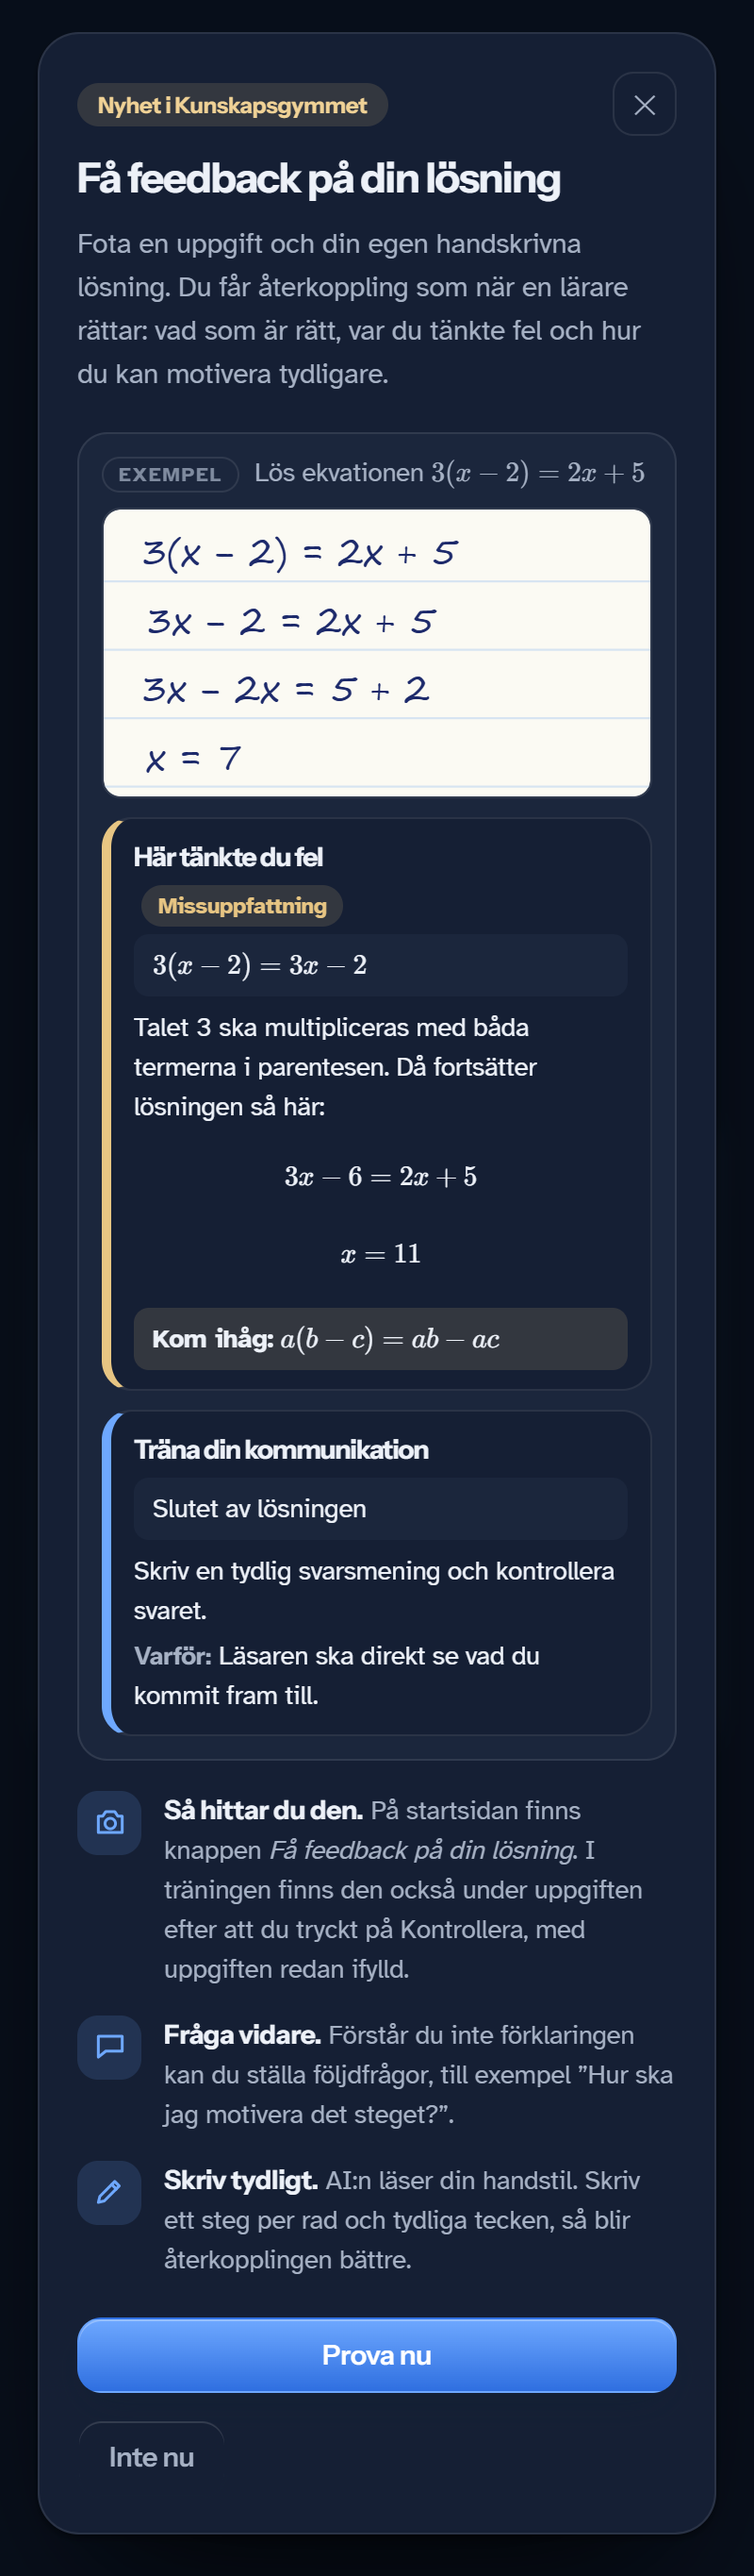
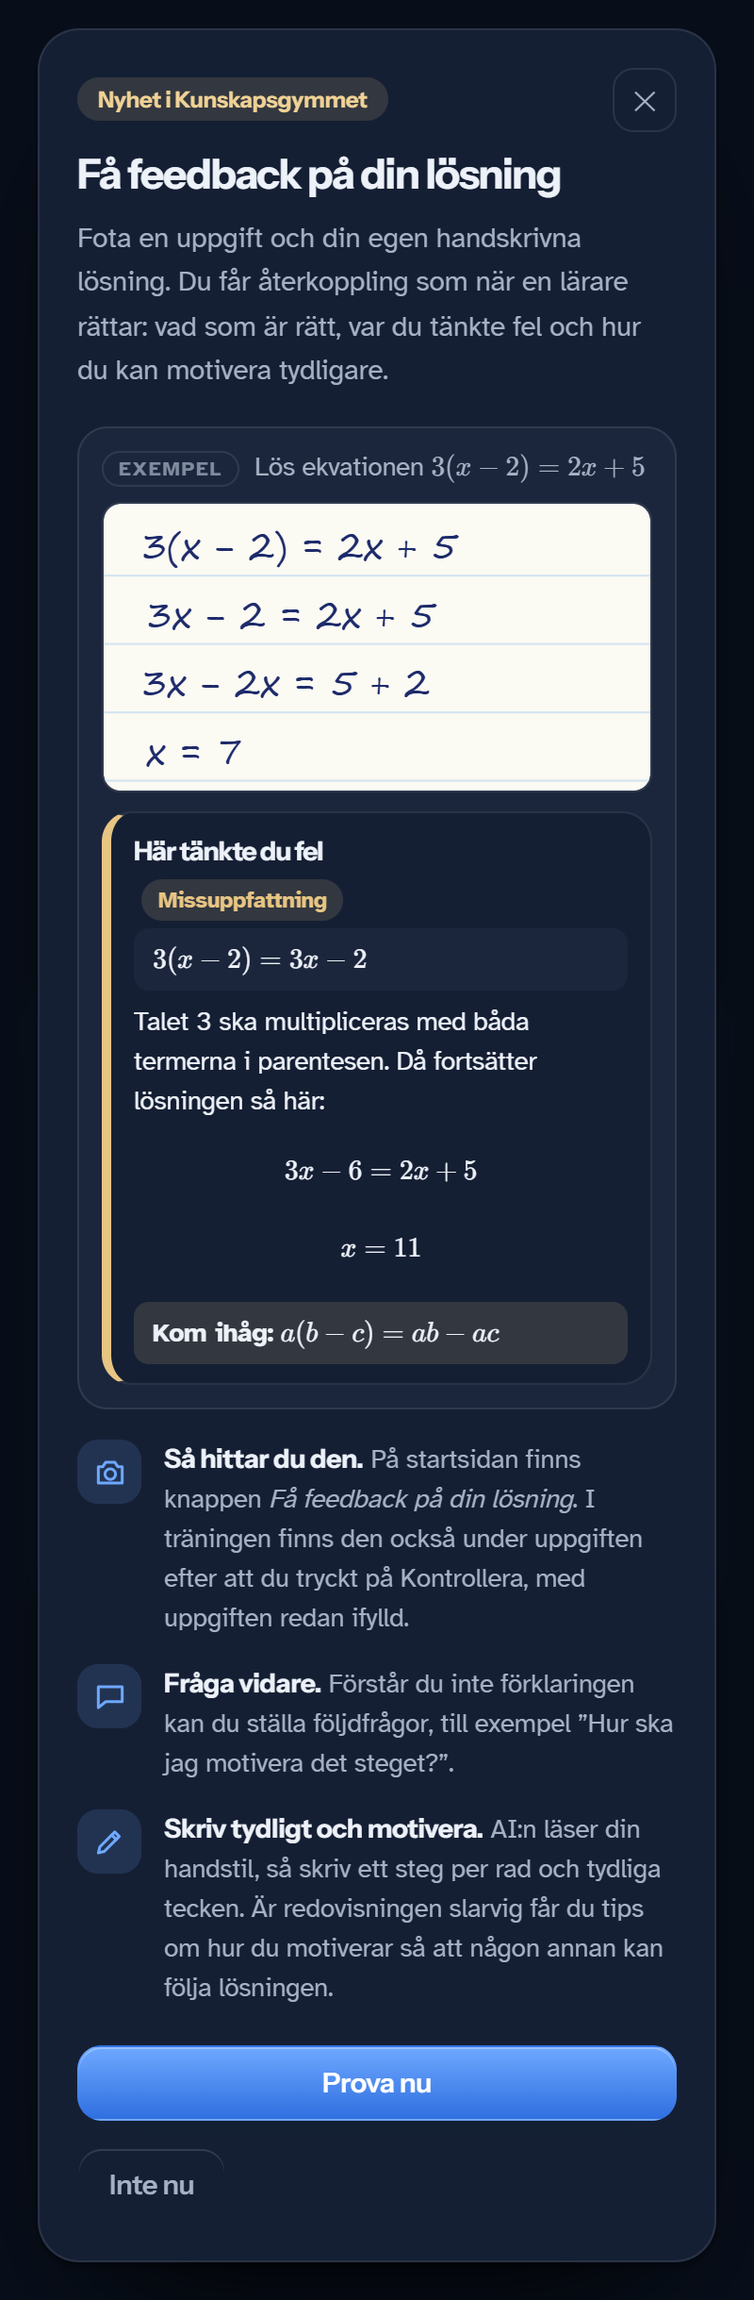
AI-feedback: kommunikationsrutan bara när kommunikationen är bristfällig, högst tre punkter
Lärarbeslut 2026-11-16: inga småsaker, annars läser eleverna rutan bara första gången.
Nyhetsrutans exempel visar inte längre kommunikationsrutan för en lösning som går att följa.

Changed region(s): [[0.0938, 0.0312, 0.9062, 0.9664], [0.8438, 0.0312, 0.875, 0.0623]]

diff --git a/supabase/functions/ai-feedback/logik.js b/supabase/functions/ai-feedback/logik.js
@@ -37,16 +37,16 @@ Arbetsgång
    - Förklara vad eleven gjorde, varför det inte stämmer och vad som hade varit rätt i just det steget. Säg gärna uttryckligen vilka av elevens tidigare steg som fortfarande är korrekta (till exempel "din avståndsformel är rätt").
    - Om felet gör att resten av lösningen går åt fel håll (fel metod, fel antagande eller en missuppfattning): visa hur eleven ska tänka i stället och skriv ut de viktigaste stegen från felet fram till rätt svar, med formler på egna rader i LaTeX. Bygg vidare på elevens egna korrekta steg och beteckningar. Vid ett enstaka räkne- eller teckenfel räcker det att visa det rätta steget och säga vad det leder till.
    - Skriv regeln eller begreppet bakom felet som en kort, allmän mening eleven kan bära med sig till nästa uppgift (fältet regel). Exempel: "När en term flyttas till andra ledet byter den tecken." eller "Kraft och acceleration har samma riktning, så tecknet på kraften bestämmer tecknet på accelerationen." Om felet är en ren slarvräkning: skriv en kort kontrollvana i stället, till exempel "Sätt in svaret i ursprungsekvationen och kontrollera."
-8. Bedöm kommunikationen noggrant, som en lärare som rättar ett prov. Eleven ska träna sin kommunikationsförmåga: en lösning ska kunna följas av någon annan utan att hen behöver gissa eller fråga. Gå igenom lösningen steg för steg och leta efter:
+8. Bedöm kommunikationen, som en lärare som rättar ett prov. Eleven ska träna sin kommunikationsförmåga: en lösning ska kunna följas av någon annan utan att hen behöver gissa eller fråga. Fyll bara i listan redovisning när kommunikationen är bristfällig, alltså när en läsare inte kan följa lösningen eller en lärare skulle dra av poäng för redovisningen: motiveringar saknas för avgörande steg, lösningen är en lös samling uträkningar, beteckningar är oförklarade eller likhetstecken och enheter används slarvigt. Om lösningen i stort går att följa ska listan vara tom, även om småsaker kunde ha skrivits bättre; ta inte upp detaljer som ett ensamt saknat ord "Svar" när svaret ändå syns tydligt, en enstaka enhet i ett mellanled eller en motivering som är självklar på kursens nivå. Gå igenom lösningen steg för steg och leta efter:
    - steg som saknar motivering: varför eleven väljer en viss metod, formel eller regel (till exempel "eftersom farten är konstant är kraftsumman noll"), eller varför en slutsats följer;
    - mellanled som hoppats över så att läsaren inte kan följa räkningen;
    - beteckningar som inte är införda eller förklarade (vad x, t eller F står för), och en figur eller skiss när situationen kräver det;
    - fel användning av matematiskt språk, till exempel likhetstecken mellan sådant som inte är lika, saknade eller felaktiga implikationspilar, eller enheter som saknas i mellanled och slutsvar;
    - en tydlig svarsmening med enhet och rimlig avrundning, och vid behov en kommentar om rimlighet eller tolkning (till exempel varför en negativ rot inte gäller).
-   För varje brist: ange var i lösningen den finns (citera eller beskriv steget), vad eleven ska lägga till, varför en läsare behöver det, och ett kort exempel på hur en sådan motivering eller mening kan formuleras. Exemplet ska visa formuleringen, inte lösa uppgiften åt eleven eller avslöja ett svar eleven inte själv har kommit fram till. Gör detta även när svaret är rätt; en lösning med rätt svar men bristande motivering är inte fullständig och ger inte full poäng. Ta upp de viktigaste bristerna först (högst sex). Om kommunikationen är fullständig, lämna listan tom och säg i stället under rätt vad som gör redovisningen tydlig.
-9. Skriv en kort sammanfattning, en till två meningar, direkt till eleven. Nämn både det matematiska och kommunikationen. Exempel: "Du fick rätt svar, men du behöver förklara hur du kom fram till ekvationen." eller "Du har valt rätt metod, men du tänkte fel när du flyttade över termen, så svaret blev fel."
+   För varje brist: ange var i lösningen den finns (citera eller beskriv steget), vad eleven ska lägga till, varför en läsare behöver det, och ett kort exempel på hur en sådan motivering eller mening kan formuleras. Exemplet ska visa formuleringen, inte lösa uppgiften åt eleven eller avslöja ett svar eleven inte själv har kommit fram till. Gör detta även när svaret är rätt; en lösning med rätt svar men bristfällig kommunikation är inte fullständig och ger inte full poäng. Ta bara upp de viktigaste bristerna (högst tre), så att eleven läser och tar till sig dem. Om kommunikationen är tillräckligt tydlig, lämna listan tom.
+9. Skriv en kort sammanfattning, en till två meningar, direkt till eleven. Nämn kommunikationen bara om den är bristfällig. Exempel: "Du fick rätt svar, men du behöver förklara hur du kom fram till ekvationen." eller "Du har valt rätt metod, men du tänkte fel när du flyttade över termen, så svaret blev fel."
 
-Om hela lösningen är korrekt och fullständigt redovisad: säg det tydligt och förklara kort varför metoden fungerar. Sätt helt_korrekt till true och lämna fel och redovisning tomma. helt_korrekt får bara vara true när redovisning är tom.
+Om hela lösningen är korrekt och kommunikationen tillräckligt tydlig: säg det tydligt och förklara kort varför metoden fungerar. Sätt helt_korrekt till true och lämna fel och redovisning tomma. helt_korrekt får bara vara true när redovisning är tom.
 
 Om uppgiften eller lösningen inte går att tolka (bilden är för suddig, lösningen saknas, bilden visar något annat än matematik eller fysik): sätt status till "behover_fortydligande", förklara vad som saknas i fortydligande_fraga och gissa inte.
 
@@ -102,6 +102,7 @@ export const SCHEMA_GRANSKNING = {
     },
     redovisning: {
       type: 'array',
+      description: 'Bara när kommunikationen är bristfällig (högst tre punkter). Tom om lösningen går att följa.',
       items: {
         type: 'object', additionalProperties: false, required: ['var', 'vad', 'varfor', 'exempel'],
         properties: {
@@ -270,7 +271,7 @@ export function tolkaGranskning(svar) {
     .slice(0, 5).map((x) => ({ steg: kort(x.steg, 500), feltyp: x.feltyp, forklaring: kort(x.forklaring, 3000), regel: kort(arStrang(x.regel) ? x.regel.trim() : '', 400) }));
   // Redovisning: objekt {var, vad, varfor, exempel} sedan 2026-11-16 (kommunikationsförmåga); äldre svar var strängar.
   const redovisning = o.redovisning.map((r) => (arStrang(r) ? { var: '', vad: r, varfor: '', exempel: '' } : r))
-    .filter((r) => r && arStrang(r.vad) && r.vad.trim()).slice(0, 6)
+    .filter((r) => r && arStrang(r.vad) && r.vad.trim()).slice(0, 3)
     .map((r) => ({ var: kort(arStrang(r.var) ? r.var : '', 400), vad: kort(r.vad, 600), varfor: kort(arStrang(r.varfor) ? r.varfor : '', 600), exempel: kort(arStrang(r.exempel) ? r.exempel : '', 600) }));
   const granskad = o.status === 'granskad';
   // Motsägelser: kallas helt korrekt men har fel, eller fel svar utan att något fel pekas ut.

diff --git a/index.html b/index.html
@@ -3621,7 +3621,7 @@ details.kgstat-panel summary{cursor:pointer;font-size:13px;font-weight:600}
 .kurs-tidigare{display:block;margin-top:6px;font-size:16px;font-weight:500;line-height:1.4;letter-spacing:normal;}
 </style>
 <link rel="stylesheet" href="uppdragsbok.css?v=2026-10-14-progress">
-<link rel="stylesheet" href="ai-feedback.css?v=2026-11-16b">
+<link rel="stylesheet" href="ai-feedback.css?v=2026-11-16c">
 </head>
 
 <body>
@@ -4580,7 +4580,7 @@ async function visaNyhetAiFeedback(){
         <li><span class="nyhet-ikon">${ikon('<path d="M4 5h16v10H9l-5 4z"/>')}</span>
           <span><b>Fråga vidare.</b> Förstår du inte förklaringen kan du ställa följdfrågor, till exempel ”Hur ska jag motivera det steget?”.</span></li>
         <li><span class="nyhet-ikon">${ikon('<path d="M4 19l4-1 10-10-3-3L5 15z"/><path d="M13 7l3 3"/>')}</span>
-          <span><b>Skriv tydligt.</b> AI:n läser din handstil. Skriv ett steg per rad och tydliga tecken, så blir återkopplingen bättre.</span></li>
+          <span><b>Skriv tydligt och motivera.</b> AI:n läser din handstil, så skriv ett steg per rad och tydliga tecken. Är redovisningen slarvig får du tips om hur du motiverar så att någon annan kan följa lösningen.</span></li>
       </ul>
       <div class="modal-fot">
         <button class="btn quiet" onclick="stangNyhet()">Inte nu</button>
@@ -19557,7 +19557,7 @@ function kvRita(snabb){
 }
 </script>
 <script src="admin-statistik.js?v=2026-10-11-analys"></script>
-<script src="ai-feedback.js?v=2026-11-16b"></script>
+<script src="ai-feedback.js?v=2026-11-16c"></script>
 <script src="onskemal.js?v=2026-10-13"></script>
 </body>
 </html>

diff --git a/ai-feedback.js b/ai-feedback.js
@@ -519,10 +519,6 @@
         <span class="aif-steg-citat">${txt("\\(3(x-2)=3x-2\\)")}</span>
         ${txt("Talet 3 ska multipliceras med båda termerna i parentesen. Då fortsätter lösningen så här:\n\\[3x-6=2x+5\\]\\[x=11\\]")}
         <span class="aif-regel"><b>Kom ihåg:</b> ${txt("\\(a(b-c)=ab-ac\\)")}</span></div>
-      <div class="aif-del vidare"><h3>Träna din kommunikation</h3>
-        <span class="aif-steg-citat">${txt("Slutet av lösningen")}</span>
-        <span class="aif-redov-rad">Skriv en tydlig svarsmening och kontrollera svaret.</span>
-        <span class="aif-redov-rad"><b>Varför:</b> Läsaren ska direkt se vad du kommit fram till.</span></div>
     </div>`;
   }
 

diff --git a/docs/AI_FEEDBACK.md b/docs/AI_FEEDBACK.md
@@ -5,7 +5,7 @@ Eleven fotograferar en uppgift (eller skriver den som text) och sin egen handskr
 - **sammanfattning**, t.ex. "Du fick rätt svar, men du behöver förklara hur du kom fram till ekvationen."
 - **Det här har du gjort rätt**
 - **Här tänkte du fel**: det felaktiga steget citeras, med feltyp och en förklaring av vad som är fel och varför. Följdfel räknas inte som nya fel. Vid fel metod eller fel antagande visas den rätta vägen från felet fram till svaret. Under varje fel står **Kom ihåg:** med regeln eller begreppet bakom felet (fältet `regel`).
-- **Träna din kommunikation: här behöver du motivera mer**: för varje brist anges var i lösningen den finns, vad som ska läggas till, varför en läsare behöver det och ett exempel på formulering (fälten `var`, `vad`, `varfor`, `exempel`). Det gäller även när svaret är rätt. `helt_korrekt` blir false så länge det finns brister i redovisningen.
+- **Träna din kommunikation: här behöver du motivera mer**: för varje brist anges var i lösningen den finns, vad som ska läggas till, varför en läsare behöver det och ett exempel på formulering (fälten `var`, `vad`, `varfor`, `exempel`). Rutan visas bara när AI:n bedömer att kommunikationen är bristfällig, alltså att lösningen är svår att följa eller saknar avgörande motiveringar. Den tar upp högst tre punkter. Småsaker tas inte upp (lärarbeslut 2026-11-16). Rutan kan visas även när svaret är rätt. `helt_korrekt` blir false så länge det finns brister i redovisningen.
 - **Svårläst handstil**: AI:n gissar inte. Rubriken blir *Skriv lite tydligare*, och eleven får veta vad som inte gick att läsa och får råd om hur lösningen ska skrivas.
 - **Fråga vidare**: följdfrågor om samma granskning, med förslagen *Varför är det steget fel?*, *Kan du förklara det enklare?* och *Hur ska jag motivera det steget?*. Antalet styrs av `kg_ai_konfig.foljdfragor_per_gransk`, satt till 2 i `sql/2026-11-16-ai-feedback-foljdfragor.sql`. Värdet kan ändras i adminöversikten.
 
